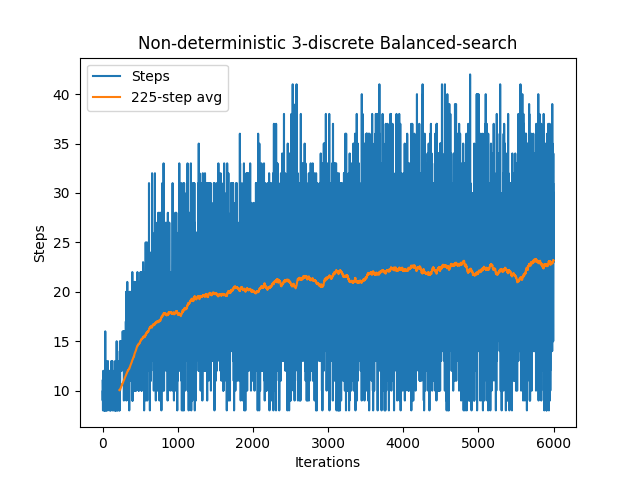
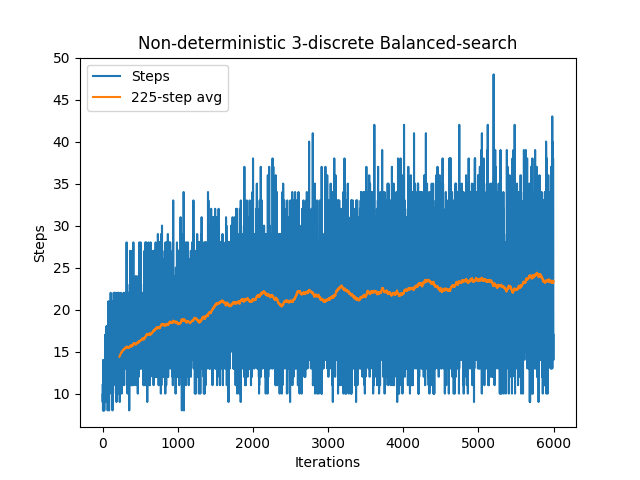
Some errors fixed, but it is still acting wonky. Debugging with semidetirministic seeding.

diff --git a/cartPole/discreteTree.py b/cartPole/discreteTree.py
@@ -1,3 +1,5 @@
+import random
+
 import gymnasium as gym
 import pygame
 import numpy as np
@@ -29,9 +31,10 @@ K_START = 1
 K_END = 1
 K_STEP = 1
 
-STEPS_PER_NODE = 3
-DETERMINISTIC = False
-START_STRATEGY = BALANCED
+STEPS_PER_NODE = 5
+DETERMINISTIC = True
+SEMI_DETERMINISTIC = 4
+START_STRATEGY = EXPLORE
 ########### End constants #################
 
 path = f"plots\\standard_tree\\{'deterministic' if DETERMINISTIC else 'non-deterministic'}\\{STEPS_PER_NODE}-discrete\\{CUTOFFPOINT}_gens"
@@ -47,6 +50,11 @@ if MANUAL_ROLLING_AVERAGE == -1:
 else:
     window_width = MANUAL_ROLLING_AVERAGE
 
+
+if SEMI_DETERMINISTIC > 1:
+    seeds= list(range(SEMI_DETERMINISTIC))
+else:
+    seeds = [5]
 def run_k_nearest(k=-1, show_results=True, save_results=True):
     if k > 0:
         kNearest.K = k
@@ -55,7 +63,9 @@ def run_k_nearest(k=-1, show_results=True, save_results=True):
     np.random.seed(0)
     random.seed(0)
 
-    observation, info = env.reset(seed=0)
+    current_seed = seeds[0]
+
+    observation, info = env.reset(seed=current_seed)
 
     steps_alive = 0
     terminated_observations = np.zeros((0, 4))
@@ -71,17 +81,22 @@ def run_k_nearest(k=-1, show_results=True, save_results=True):
     root_node = DCartPoleTreeNode(observation, 0, START_STRATEGY, "-")
     visited_nodes = []
     current_node = root_node
+    all_nodes[current_node.get_state_bucket] = current_node
+    action = current_node.pick_action()
+
+    root_list = {}
+    root_list[current_seed] = root_node
 
     while its_before_finished < CUTOFFPOINT:
-        if steps_alive%STEPS_PER_NODE == 0:
-            action = current_node.pick_action()
 
         observation, reward, terminated, truncated, info = env.step(action)
 
         if steps_alive%STEPS_PER_NODE == 0:
             visited_nodes.append(current_node)
             new_node_bucket = current_node.calc_state_bucket(observation)
-            if not new_node_bucket in all_nodes:
+            action = current_node.pick_action()
+
+            if not new_node_bucket in all_nodes.keys():
                 current_node = current_node.register_move(observation, steps_alive, action)
                 all_nodes[current_node.get_state_bucket] = current_node
             else:
@@ -101,17 +116,46 @@ def run_k_nearest(k=-1, show_results=True, save_results=True):
                 else:
                     last_it_succeeded = True
 
-            current_node = root_node
-            root_node.set_root_strategy(START_STRATEGY)
+
+
+            if current_seed == 0 and its_before_finished > 1500:
+                test = current_seed #TODO why is bad stuff happening
+
             visited_nodes = []
+
+
             if DETERMINISTIC:
-                observation, info = env.reset(seed=0)
+                random.shuffle(seeds)
+                current_seed = seeds[0]
+                observation, info = env.reset(seed=current_seed)
             else:
                 observation, info = env.reset()
 
+            new_node_bucket = current_node.calc_state_bucket(observation)
+
+            if not current_seed in root_list.keys():
+                current_node = DCartPoleTreeNode(observation, 0, START_STRATEGY, "-")
+                all_nodes[new_node_bucket] = current_node
+                root_list[current_seed] = current_node
+                if not current_seed in root_list:
+                    test =  all_nodes[new_node_bucket]
+                    test2 = 1
+            else:
+                current_node = all_nodes[new_node_bucket]
+                if new_node_bucket != root_list[current_seed].get_state_bucket():
+                    print("States not matching...")
+                    input()
+
+            current_node.set_root_strategy(START_STRATEGY)
+
+
+
             print(f"{its_before_finished}: Steps alive: {steps_alive}")
+
+
             #print(root_node.visualize_tree())
             #print(root_node.show_selected_path())
+
             data = np.append(data, [steps_alive])
             steps_alive = 0
             its_before_finished += 1

diff --git a/classes/discreteCartPoleTreeNode.py b/classes/discreteCartPoleTreeNode.py
@@ -22,6 +22,7 @@ class DCartPoleTreeNode:
         self.max_depth = [1, 1]
         self.max_unexplored_depth = [1, 1]
         self.risk_weighted_score = self.update_risk_weighted_score()
+        self.state_bucket = self.calc_state_bucket(state)
         self.holes_beneath = [1, 1]
         self.most_recent_choice = -1
         self.strategy = strategy
@@ -39,19 +40,20 @@ class DCartPoleTreeNode:
 
 
     def update(self):
-        if not self.children[0] and not self.children[1]:
-            self.max_depth = [self.average_max_depth(self.children[0]), self.average_max_depth(self.children(1))]
-            self.max_unexplored_depth = [self.average_max_unexplored_depth(self.children[0]), self.average_max_unexplored_depth(self.children(1))]
+        if bool(self.children[0]) and bool(self.children[1]):
+            self.max_depth = [self.average_max_depth(self.children[0]), self.average_max_depth(self.children[1])]
+            self.max_unexplored_depth = [self.average_max_unexplored_depth(self.children[0]), self.average_max_unexplored_depth(self.children[1])]
             if max(self.max_unexplored_depth) >= 0.5:
-                self.max_unexplored_depth += 1
-            self.holes_beneath = [self.average_holes_beneath(self.children[0]), self.average_holes_beneath(self.children(1))]
+                self.max_unexplored_depth = [depth + 1 for depth in self.max_unexplored_depth]
+            self.holes_beneath = [self.average_holes_beneath(self.children[0]), self.average_holes_beneath(self.children[1])]
         else:
             i = self.most_recent_choice
-            self.max_depth[i] = self.average_max_depth(self.children[1])
-            self.max_unexplored_depth[i] = self.average_max_unexplored_depth(self.children[1]) #TODO check if this is correct
+            self.max_depth[i] = self.average_max_depth(self.children[i])
+            self.max_unexplored_depth[i] = self.average_max_unexplored_depth(self.children[i])
             self.holes_beneath[i] = self.average_holes_beneath(self.children[i])
         self.visited += 1
         self.risk_weighted_score = self.update_risk_weighted_score()
+        test = 1
 
 
     def get_state_bucket(self):
@@ -100,10 +102,12 @@ class DCartPoleTreeNode:
             else:
                 choice = self.maximize_points()
         elif self.strategy == EXPLORE:
-            return self.explore()
+            choice = self.explore()
         else:
             choice = 0
         self.most_recent_choice = choice
+        if self.most_recent_choice == -1:
+            test = 1
         return choice
 
     def states_are_equal(self, obs1, obs2):
@@ -120,7 +124,8 @@ class DCartPoleTreeNode:
         if not child:
             return 1 + RISK_THRESHOLD
         total_sum = self.average_max_depth(child)
-        unexplored_sum = self.average_max_unexplored_depth(child) + RISK_THRESHOLD
+        unexplored_sum = self.average_max_unexplored_depth(child)
+        unexplored_sum += (RISK_THRESHOLD if unexplored_sum > 0 else 0)
 
         return max(total_sum, unexplored_sum)
 
@@ -136,7 +141,7 @@ class DCartPoleTreeNode:
         visited = 0
         for key, node in child.items():
             visited += node.visited
-            sum += node.visited * (node.max_depth[0] + node.max_depth[1])
+            sum += node.visited * (max(node.max_depth[0], node.max_depth[1]))
         sum /= visited
         return sum + 1
 
@@ -150,8 +155,9 @@ class DCartPoleTreeNode:
         visited = 0
         for key, node in child.items():
             visited += node.visited
-            sum += node.visited * max(node.max_unexplored_depth)
-            more_than_1 += node.visited * (1 if max(node.max_unexplored_depth) >= 1 else 0)
+            if not node.is_final:
+                sum += node.visited * max(node.max_unexplored_depth)
+                more_than_1 += node.visited * (1 if max(node.max_unexplored_depth) >= 1 else 0)
         sum /= visited
         if more_than_1 < visited*0.5:
             sum = -1
